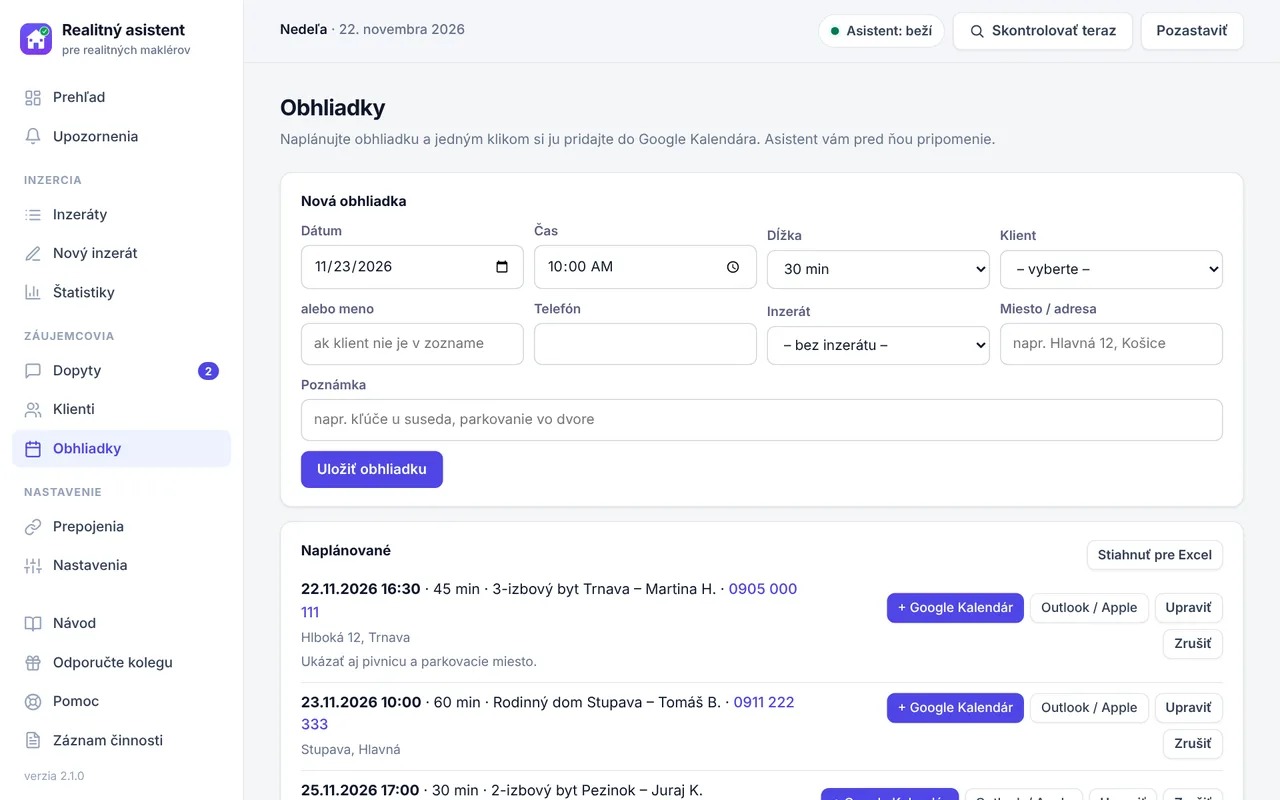
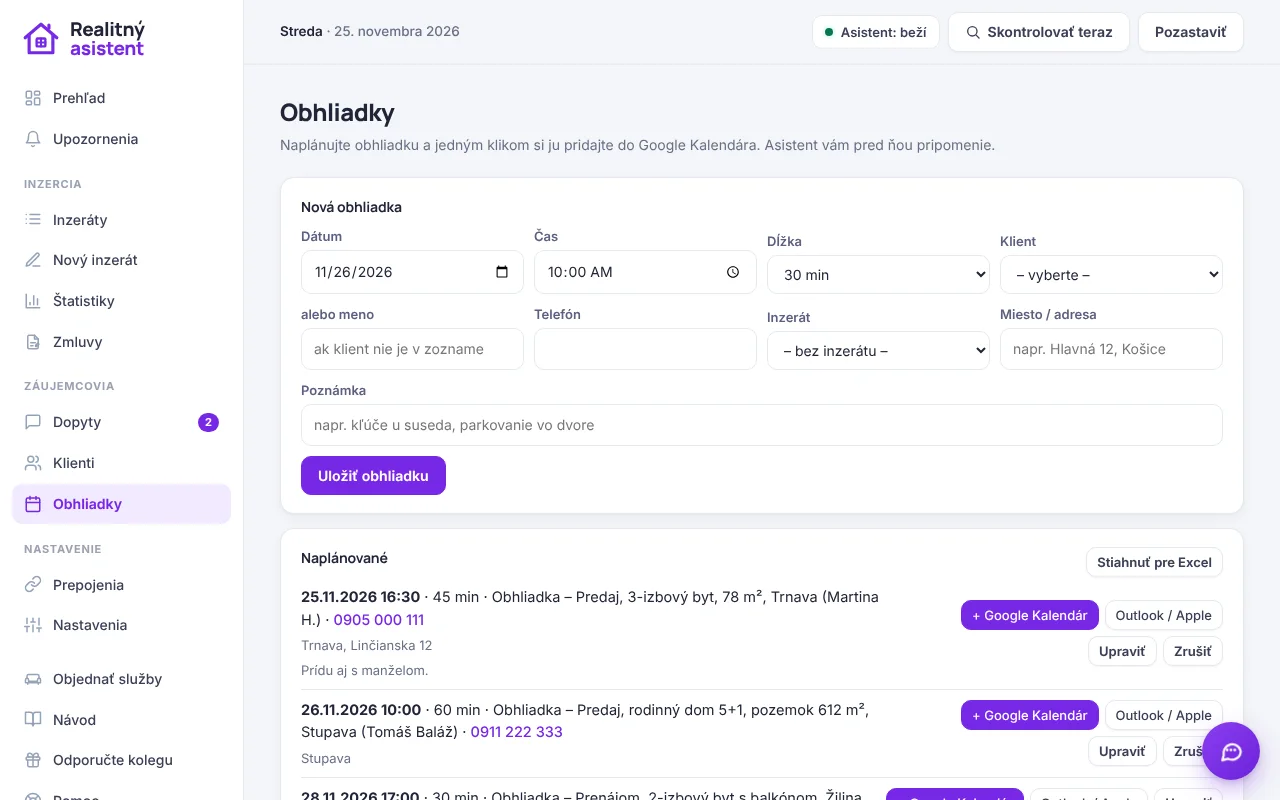
Aktualne snimky aplikacie + karty Zmluvy a Objednavky
Claude-Session: https://claude.ai/code/session_01MEeUVhqdptTjPGt2hC7jaR

diff --git a/asistent.html b/asistent.html
@@ -21,8 +21,8 @@
 <meta name="twitter:card" content="summary_large_image">
 <link rel="preconnect" href="https://fonts.googleapis.com"><link rel="preconnect" href="https://fonts.gstatic.com" crossorigin>
 <link href="https://fonts.googleapis.com/css2?family=Inter:wght@400;500;600;700&amp;family=Manrope:wght@700;800&amp;display=swap" rel="stylesheet">
-<link rel="stylesheet" href="styles.css?v=20261125a">
-<script src="main.js?v=20261125a" defer></script>
+<link rel="stylesheet" href="styles.css?v=20261125b">
+<script src="main.js?v=20261125b" defer></script>
 </head>
 <body>
 <a class="skip" href="#obsah">Preskočiť na obsah</a>
@@ -103,6 +103,8 @@
       <button role="tab" aria-selected="false" aria-controls="shot" data-i="klienti">Klienti</button>
       <button role="tab" aria-selected="false" aria-controls="shot" data-i="obhliadky">Obhliadky</button>
       <button role="tab" aria-selected="false" aria-controls="shot" data-i="statistiky">Štatistiky</button>
+      <button role="tab" aria-selected="false" aria-controls="shot" data-i="zmluvy">Zmluvy</button>
+      <button role="tab" aria-selected="false" aria-controls="shot" data-i="objednat">Objednávky</button>
     </div>
     <picture class="shot" id="shot"><source id="shotWebp" srcset="img/app_prehlad.webp" type="image/webp"><img id="shotImg" src="img/app_prehlad.jpg" alt="Prehľad: počet inzerátov, nevybavené dopyty, úlohy na dnes a posledné upozornenia" width="1280" height="800" loading="lazy"></picture>
     <p class="shot-cap" id="shotCap">Prehľad – čo je dôležité dnes: inzeráty, nevybavené dopyty, obhliadky a upozornenia.</p>

diff --git a/main.js b/main.js
@@ -44,6 +44,8 @@ const SHOTS = {
   inzeraty: ['Inzeráty – zmena ceny zadarmo, TOP, vloženie znova po 60 dňoch a presun starých inzerátov z Bazoša.', 'Inzeráty na Bazoši s cenou, zobrazeniami, platnosťou a tlačidlami na zmenu ceny a TOP'],
   dopyty: ['Dopyty – správy záujemcov zoradené podľa inzerátu, odpoveď priamo z aplikácie.', 'Dopyty od záujemcov zoradené podľa inzerátov s možnosťou odpovedať'],
   statistiky: ['Štatistiky – zobrazenia, dopyty a obhliadky po týždňoch a pri každom inzeráte.', 'Štatistiky: dopyty a obhliadky po týždňoch a tabuľka inzerátov'],
+  zmluvy: ['Zmluvy – z listu vlastníctva sa vyplní zmluva o sprostredkovaní, ktorú klient potvrdí online.', 'Zmluvy: nahratý list vlastníctva a vyplnené údaje nehnuteľnosti'],
+  objednat: ['Objednávky – virtuálne zariadenie, videá a Reels objednáte v aplikácii a hotové súbory sa stiahnu samy.', 'Objednávky: moje objednávky so stavom a výber služby'],
   klienti: ['Klienti – všetci záujemcovia na jednom mieste, s poznámkami a históriou.', 'Zoznam klientov s kontaktmi, stavom a poznámkami'],
   obhliadky: ['Obhliadky – naplánujete jedným klikom a pridáte do Google Kalendára.', 'Plánovanie obhliadok s tlačidlom do Google Kalendára']
 };

diff --git a/zmluva.html b/zmluva.html
@@ -12,8 +12,8 @@
 <meta name="theme-color" content="#7728E6">
 <link rel="preconnect" href="https://fonts.googleapis.com"><link rel="preconnect" href="https://fonts.gstatic.com" crossorigin>
 <link href="https://fonts.googleapis.com/css2?family=Inter:wght@400;500;600;700&amp;family=Manrope:wght@700;800&amp;display=swap" rel="stylesheet">
-<link rel="stylesheet" href="styles.css?v=20261125a">
-<script src="zmluva.js?v=20261125a" defer></script>
+<link rel="stylesheet" href="styles.css?v=20261125b">
+<script src="zmluva.js?v=20261125b" defer></script>
 <style>
 .zm{max-width:860px;margin:0 auto}.zm .card{background:#fff;border:1px solid #E6E8EF;border-radius:18px;padding:22px 24px;margin:0 0 18px;box-shadow:0 6px 24px rgba(32,36,54,.05)}
 .zm iframe{width:100%;height:68vh;min-height:420px;border:1px solid #E6E8EF;border-radius:12px;background:#fff}

diff --git a/objednavka.html b/objednavka.html
@@ -21,9 +21,9 @@
 <meta name="twitter:card" content="summary_large_image">
 <link rel="preconnect" href="https://fonts.googleapis.com"><link rel="preconnect" href="https://fonts.gstatic.com" crossorigin>
 <link href="https://fonts.googleapis.com/css2?family=Inter:wght@400;500;600;700&amp;family=Manrope:wght@700;800&amp;display=swap" rel="stylesheet">
-<link rel="stylesheet" href="styles.css?v=20261125a">
-<script src="main.js?v=20261125a" defer></script>
-<script src="objednavka.js?v=20261125a" defer></script>
+<link rel="stylesheet" href="styles.css?v=20261125b">
+<script src="main.js?v=20261125b" defer></script>
+<script src="objednavka.js?v=20261125b" defer></script>
 </head>
 <body>
 <a class="skip" href="#obsah">Preskočiť na obsah</a>

diff --git a/ambasador.html b/ambasador.html
@@ -21,9 +21,9 @@
 <meta name="twitter:card" content="summary_large_image">
 <link rel="preconnect" href="https://fonts.googleapis.com"><link rel="preconnect" href="https://fonts.gstatic.com" crossorigin>
 <link href="https://fonts.googleapis.com/css2?family=Inter:wght@400;500;600;700&amp;family=Manrope:wght@700;800&amp;display=swap" rel="stylesheet">
-<link rel="stylesheet" href="styles.css?v=20261125a">
-<script src="main.js?v=20261125a" defer></script>
-<script src="ambasador.js?v=20261125a" defer></script>
+<link rel="stylesheet" href="styles.css?v=20261125b">
+<script src="main.js?v=20261125b" defer></script>
+<script src="ambasador.js?v=20261125b" defer></script>
 </head>
 <body>
 <a class="skip" href="#obsah">Preskočiť na obsah</a>

diff --git a/404.html b/404.html
@@ -21,8 +21,8 @@
 <meta name="twitter:card" content="summary_large_image">
 <link rel="preconnect" href="https://fonts.googleapis.com"><link rel="preconnect" href="https://fonts.gstatic.com" crossorigin>
 <link href="https://fonts.googleapis.com/css2?family=Inter:wght@400;500;600;700&amp;family=Manrope:wght@700;800&amp;display=swap" rel="stylesheet">
-<link rel="stylesheet" href="/styles.css?v=20261125a">
-<script src="/main.js?v=20261125a" defer></script>
+<link rel="stylesheet" href="/styles.css?v=20261125b">
+<script src="/main.js?v=20261125b" defer></script>
 </head>
 <body>
 <a class="skip" href="#obsah">Preskočiť na obsah</a>

diff --git a/index.html b/index.html
@@ -21,8 +21,8 @@
 <meta name="twitter:card" content="summary_large_image">
 <link rel="preconnect" href="https://fonts.googleapis.com"><link rel="preconnect" href="https://fonts.gstatic.com" crossorigin>
 <link href="https://fonts.googleapis.com/css2?family=Inter:wght@400;500;600;700&amp;family=Manrope:wght@700;800&amp;display=swap" rel="stylesheet">
-<link rel="stylesheet" href="styles.css?v=20261125a">
-<script src="main.js?v=20261125a" defer></script>
+<link rel="stylesheet" href="styles.css?v=20261125b">
+<script src="main.js?v=20261125b" defer></script>
 </head>
 <body>
 <a class="skip" href="#obsah">Preskočiť na obsah</a>

diff --git a/odporucanie.html b/odporucanie.html
@@ -21,8 +21,8 @@
 <meta name="twitter:card" content="summary_large_image">
 <link rel="preconnect" href="https://fonts.googleapis.com"><link rel="preconnect" href="https://fonts.gstatic.com" crossorigin>
 <link href="https://fonts.googleapis.com/css2?family=Inter:wght@400;500;600;700&amp;family=Manrope:wght@700;800&amp;display=swap" rel="stylesheet">
-<link rel="stylesheet" href="styles.css?v=20261125a">
-<script src="main.js?v=20261125a" defer></script>
+<link rel="stylesheet" href="styles.css?v=20261125b">
+<script src="main.js?v=20261125b" defer></script>
 </head>
 <body>
 <a class="skip" href="#obsah">Preskočiť na obsah</a>

diff --git a/podmienky.html b/podmienky.html
@@ -21,8 +21,8 @@
 <meta name="twitter:card" content="summary_large_image">
 <link rel="preconnect" href="https://fonts.googleapis.com"><link rel="preconnect" href="https://fonts.gstatic.com" crossorigin>
 <link href="https://fonts.googleapis.com/css2?family=Inter:wght@400;500;600;700&amp;family=Manrope:wght@700;800&amp;display=swap" rel="stylesheet">
-<link rel="stylesheet" href="styles.css?v=20261125a">
-<script src="main.js?v=20261125a" defer></script>
+<link rel="stylesheet" href="styles.css?v=20261125b">
+<script src="main.js?v=20261125b" defer></script>
 </head>
 <body>
 <a class="skip" href="#obsah">Preskočiť na obsah</a>

diff --git a/sukromie.html b/sukromie.html
@@ -21,8 +21,8 @@
 <meta name="twitter:card" content="summary_large_image">
 <link rel="preconnect" href="https://fonts.googleapis.com"><link rel="preconnect" href="https://fonts.gstatic.com" crossorigin>
 <link href="https://fonts.googleapis.com/css2?family=Inter:wght@400;500;600;700&amp;family=Manrope:wght@700;800&amp;display=swap" rel="stylesheet">
-<link rel="stylesheet" href="styles.css?v=20261125a">
-<script src="main.js?v=20261125a" defer></script>
+<link rel="stylesheet" href="styles.css?v=20261125b">
+<script src="main.js?v=20261125b" defer></script>
 </head>
 <body>
 <a class="skip" href="#obsah">Preskočiť na obsah</a>

diff --git a/videa.html b/videa.html
@@ -21,8 +21,8 @@
 <meta name="twitter:card" content="summary_large_image">
 <link rel="preconnect" href="https://fonts.googleapis.com"><link rel="preconnect" href="https://fonts.gstatic.com" crossorigin>
 <link href="https://fonts.googleapis.com/css2?family=Inter:wght@400;500;600;700&amp;family=Manrope:wght@700;800&amp;display=swap" rel="stylesheet">
-<link rel="stylesheet" href="styles.css?v=20261125a">
-<script src="main.js?v=20261125a" defer></script>
+<link rel="stylesheet" href="styles.css?v=20261125b">
+<script src="main.js?v=20261125b" defer></script>
 </head>
 <body>
 <a class="skip" href="#obsah">Preskočiť na obsah</a>

diff --git a/weby.html b/weby.html
@@ -21,8 +21,8 @@
 <meta name="twitter:card" content="summary_large_image">
 <link rel="preconnect" href="https://fonts.googleapis.com"><link rel="preconnect" href="https://fonts.gstatic.com" crossorigin>
 <link href="https://fonts.googleapis.com/css2?family=Inter:wght@400;500;600;700&amp;family=Manrope:wght@700;800&amp;display=swap" rel="stylesheet">
-<link rel="stylesheet" href="styles.css?v=20261125a">
-<script src="main.js?v=20261125a" defer></script>
+<link rel="stylesheet" href="styles.css?v=20261125b">
+<script src="main.js?v=20261125b" defer></script>
 </head>
 <body>
 <a class="skip" href="#obsah">Preskočiť na obsah</a>
